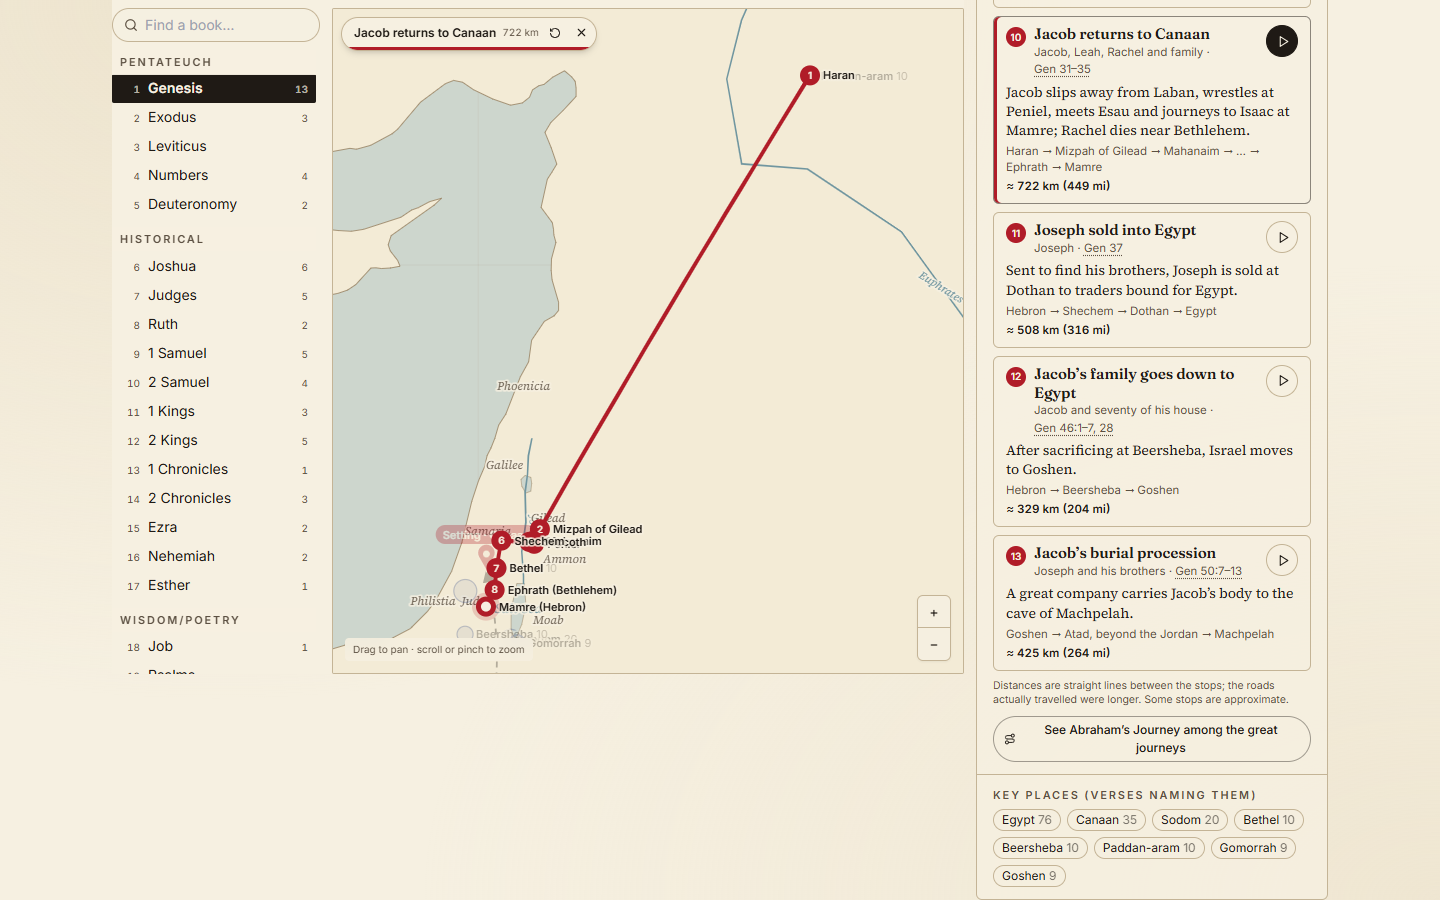
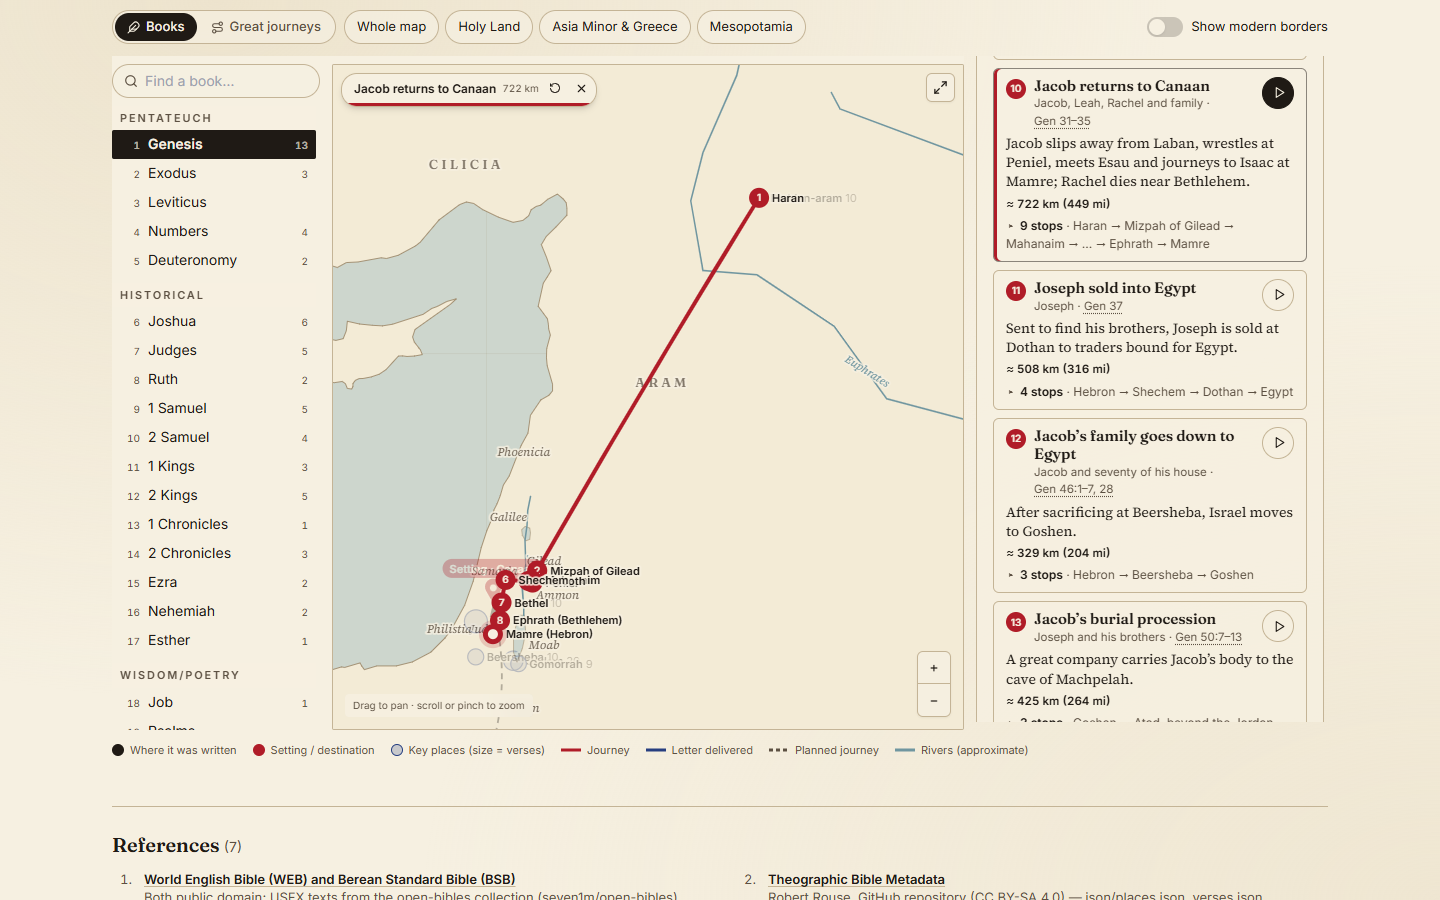
README: refresh all screenshots; add home page and Start here
- Every screenshot retaken from the current site (The Bible tabs, new
  headers and intros, Core beliefs diagram with the creed lens,
  Traditions grid, Map, Characters, phone views)
- New images: the home page (now the top image) and Church History's
  Start here; the Languages grid moves into The Bible section

diff --git a/README.md b/README.md
@@ -1,12 +1,12 @@
 # The Canon Ball
 
-**An interactive guide to the Bible's languages, people and places.**
+**An interactive guide to the Bible: its languages, people and places, and two thousand years of church history.**
 
 **▶ Open the site: https://work-kelv.github.io/the-canon-ball/**
 
 It works on phones and computers, in light or dark mode. You can share a link to any page, book or person.
 
-![The Languages page: all 66 books, coloured by the language they were written in](docs/screenshots/languages-grid.png)
+![The home page: four ways into the Bible](docs/screenshots/home.png)
 
 The site opens on an [introduction page](https://work-kelv.github.io/the-canon-ball/) that leads to four sections:
 
@@ -24,6 +24,8 @@ Any Bible reference on the site (shown with a dotted underline) can be clicked t
 ## 1. The Bible
 
 The Bible page follows the text in the order things happened, in three tabs (each with its own link, such as `languages.html#verses`). Its introduction explains why the Bible is in three languages, with a short timeline.
+
+![The Bible page: all 66 books, coloured by the language they were written in](docs/screenshots/languages-grid.png)
 
 **Original languages.** All 66 books are shown in canonical order. Each one is coloured by its original language, and stronger colour means more chapters.
 
@@ -81,6 +83,8 @@ The map covers the Mediterranean and the Ancient Near East, drawn in a parchment
 ## 4. Church History
 
 The Church History page works like a short course: six tabs in learning order, with Previous / Next buttons at the bottom of each. Each tab has its own link (for example `history.html#creeds`). The old `#translations` and `#verses` links now open those tabs on The Bible page.
+
+![Start here: church history in six simple steps](docs/screenshots/history-start.png)
 
 ![The family tree of the church](docs/screenshots/history-tree.png)
 
